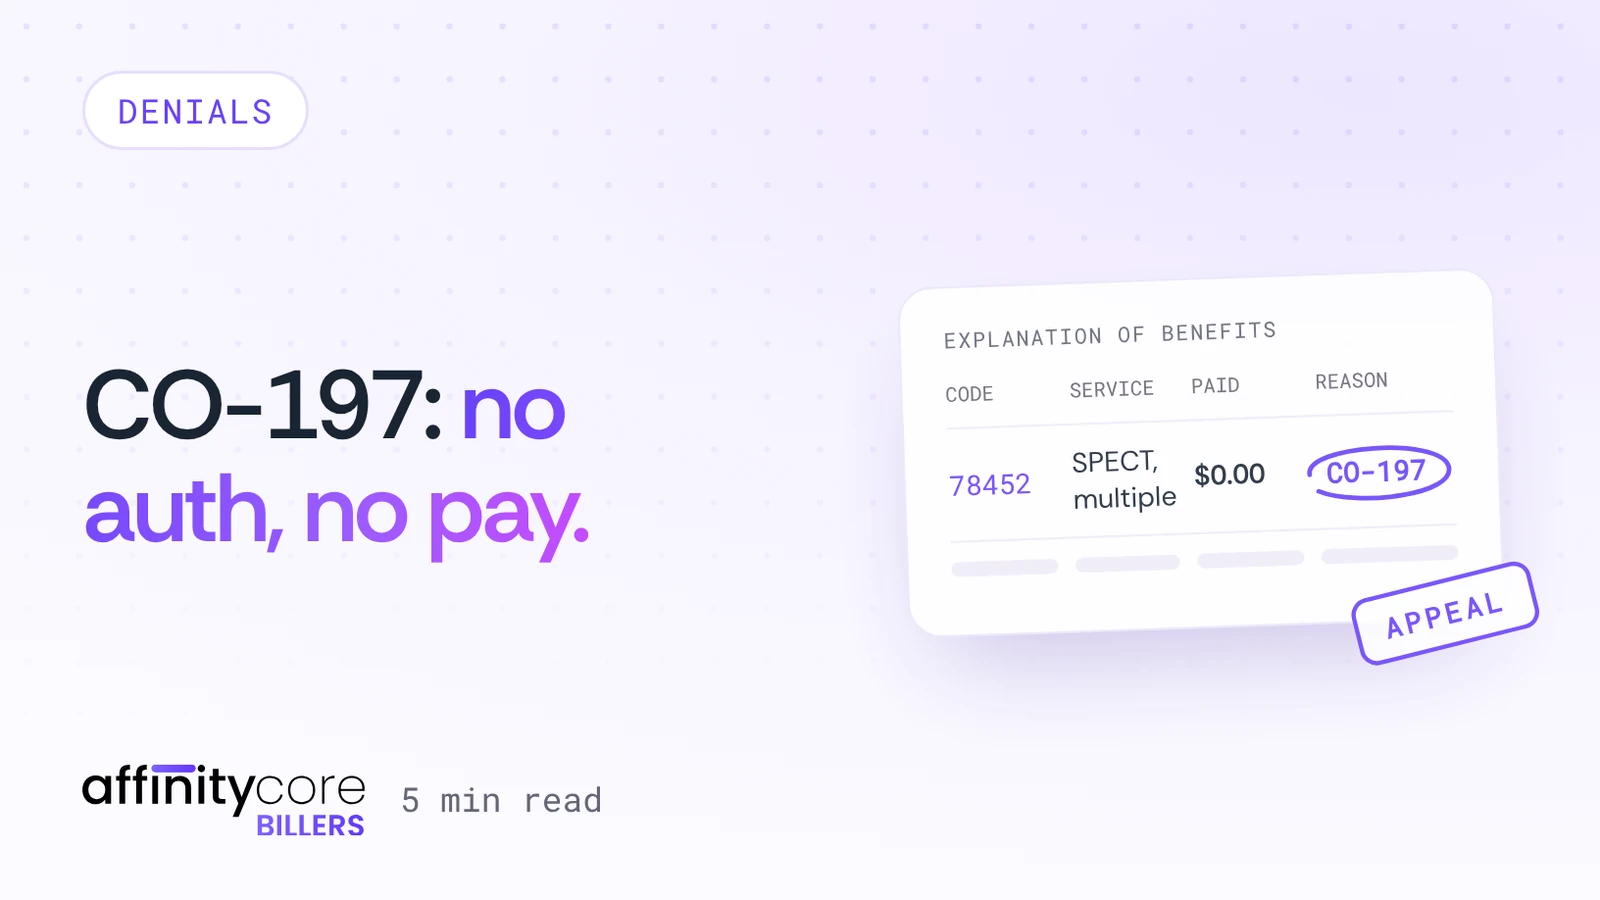
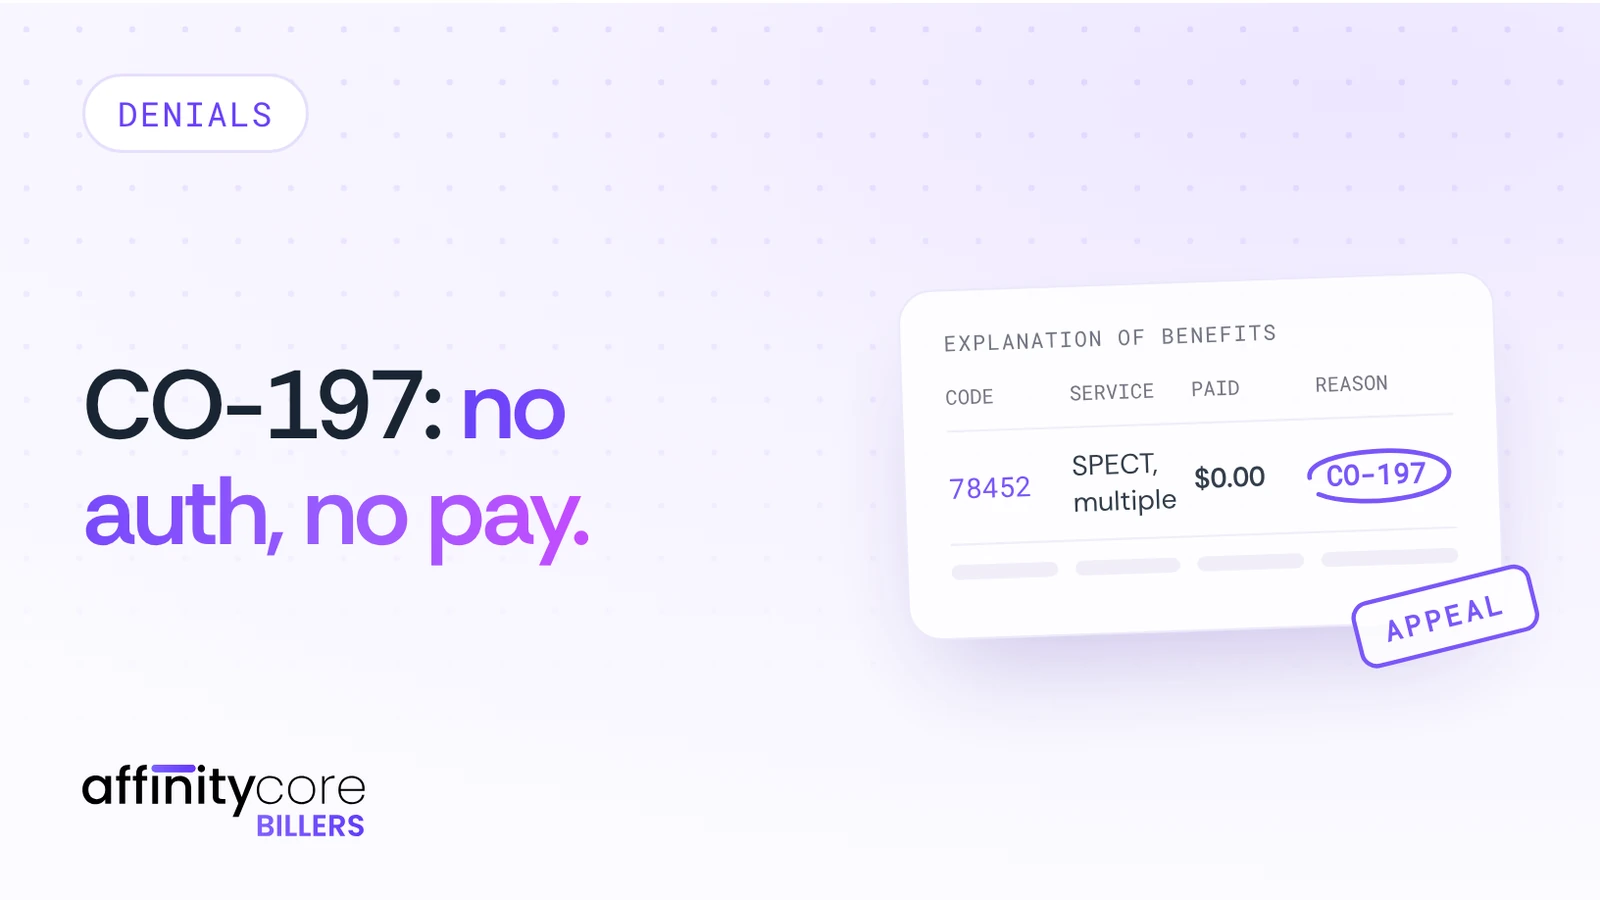
Blog covers: drop the repeated read time from the images; featured card fills its image area (taller feature crop)
Claude-Session: https://claude.ai/code/session_01VLHnCS48Nbp5LWcCiQSHnz

diff --git a/src/views/Blog.tsx b/src/views/Blog.tsx
@@ -75,7 +75,7 @@ function SplitCover({ a, big }: { a: Article; big?: boolean }) {
       <div className="bsp__text [position:relative] [z-index:1] [display:flex] [flex-direction:column] [justify-content:space-between] [min-width:0]">
         <span className="bsp__topic [align-self:flex-start] [padding:0.5rem_1.1rem] [border-radius:2rem] [background:#fff] [border:1px_solid_#e6defc] [font-family:var(--f-mono)] [font-size:max(1.15rem,11.5px)] [letter-spacing:0.06em] [text-transform:uppercase] [color:var(--purple)] [.bsp--big_&]:[font-size:max(1.3rem,13px)]">{a.topic}</span>
         <p className="bsp__hook [font-weight:600] [font-size:clamp(1.9rem,_6.6cqi,_3.4rem)] [line-height:1.08] [letter-spacing:-0.04em] [color:var(--ink-2)] [text-wrap:balance] [&_em]:[font-style:normal] [&_em]:[background:linear-gradient(90deg,_#6a41f9,_#9b5cff_60%,_#c54bff)] [&_em]:[-webkit-background-clip:text] [&_em]:[background-clip:text]! [&_em]:[color:transparent] [.bsp--big_&]:[font-size:clamp(2.6rem,_5.6cqi,_6rem)]">{lead}{accent && <> <em>{accent}</em></>}</p>
-        <span className="bsp__foot [display:flex] [align-items:center] [gap:1.2rem] [font-family:var(--f-mono)] [font-size:max(1.15rem,11.5px)] [color:#646776] [.bsp--big_&]:[font-size:max(1.3rem,13px)]"><Logo className="bsp__logo [width:9.6rem]! [.bsp--big_&]:[width:13rem]!" /><span>{a.read}</span></span>
+        <span className="bsp__foot [display:flex] [align-items:center] [gap:1.2rem] [font-family:var(--f-mono)] [font-size:max(1.15rem,11.5px)] [color:#646776] [.bsp--big_&]:[font-size:max(1.3rem,13px)]"><Logo className="bsp__logo [width:9.6rem]! [.bsp--big_&]:[width:13rem]!" /></span>
       </div>
       <ArtFit>{a.cover && <SceneCover c={a.cover} />}</ArtFit>
     </div>
@@ -162,7 +162,11 @@ export function BlogHub() {
         </div>
         <motion.article className="bf [display:grid] [grid-template-columns:minmax(0,_0.9fr)_minmax(0,_1fr)] [border-radius:3.2rem] [border:1px_solid_#ece8fa] [background:#fff] [overflow:hidden] [cursor:pointer] [box-shadow:0_3rem_8rem_-2rem_rgba(57,_28,_160,_0.16)] [transition:transform_0.6s_cubic-bezier(.16,1,.3,1)] [&:hover]:[transform:translateY(-0.6rem)] [@media(max-width:_1099px)]:[grid-template-columns:minmax(0,_1fr)]" onClick={() => go(`/blog/${feat.slug}`)} initial={{ opacity: 0, y: 40 }} animate={{ opacity: 1, y: 0 }} transition={{ duration: 1.1, ease: ease.out, delay: 0.4 }}>
           {feat.image ? (
-            <div className="bf__img [position:relative] [overflow:hidden] [background:#f8f6ff] [@media(max-width:_1099px)]:[aspect-ratio:16_/_9]"><img className="[position:absolute] [inset:0] [width:100%] [height:100%] [object-fit:contain]" src={u(feat.image)} alt={feat.hook ? feat.hook.join(' ') : ''} /></div>
+            <div className="bf__img [position:relative] [overflow:hidden] [background:#f8f6ff] [@media(max-width:_1099px)]:[aspect-ratio:16_/_9]">
+              {/* Desktop: the taller feature crop if there is one; phones and tablets: the standard 16:9 cover */}
+              <img className="[position:absolute] [inset:0] [width:100%] [height:100%] [object-fit:cover] [object-position:left_center] [@media(max-width:_1099px)]:[display:none]" src={u(feat.featureImage ?? feat.image)} alt={feat.hook ? feat.hook.join(' ') : ''} />
+              <img className="[display:none] [@media(max-width:_1099px)]:[display:block] [position:absolute] [inset:0] [width:100%] [height:100%] [object-fit:cover]" src={u(feat.image)} alt="" />
+            </div>
           ) : <BlogArt />}
           <div className="bf__body [@media(max-width:_1099px)]:[font-size:16px]! [@media(max-width:_1099px)]:[line-height:1.6] [display:flex] [flex-direction:column] [gap:1.2rem] [padding:3.2rem] [&_h2]:[font-weight:500] [&_h2]:[font-size:2.6rem] [&_h2]:[line-height:1.15] [&_h2]:[letter-spacing:-0.06rem] [&_h2]:[color:var(--ink-2)] [&_p]:[font-size:max(1.7rem,15px)] [&_p]:[line-height:1.55] [&_p]:[color:#5b5f72] [@media(max-width:_1099px)]:[padding:2.8rem] [@media(max-width:_1099px)]:[&_h2]:[font-size:2.6rem]">
             <small className="bk__meta [font-family:var(--f-mono)] [font-size:max(1.2rem,12px)] [text-transform:uppercase] [letter-spacing:0.06em] [color:#636673]"><span className="bf__new [display:inline-block] [margin-right:0.6rem] [padding:0.3rem_0.8rem] [border-radius:2rem] [color:#fff] [background:var(--grad)] [border-color:transparent]">Latest</span> {feat.topic} · {feat.date} · {feat.read}</small>

diff --git a/src/data/insights.ts b/src/data/insights.ts
@@ -126,6 +126,8 @@ import type { Cover } from '../components/BlogCover';
 export type Article = {
   /** cover image (16:9), e.g. '/blog/covers/<slug>.webp'. Used everywhere the article is shown; a CMS only needs to supply this. */
   image?: string;
+  /** optional taller crop (about 1.22:1) for the featured card on desktop; falls back to image */
+  featureImage?: string;
   /** scene thumbnail (components/BlogCover): the animated fallback when there's no image */
   cover?: Cover;
   /** text-on-image cover: a short hook (accent words in the 2nd item) — also the OG / featured image text */
@@ -138,7 +140,7 @@ export const TOPICS = ['All', 'Prior auth', 'Coding', 'Denials', 'Credentialing'
 
 export const ARTICLES: Article[] = [
   {
-    slug: 'cms-prior-authorization-rule-2026', image: '/blog/covers/cms-prior-authorization-rule-2026.webp', hook: ['Prior auth now has a', '72‑hour clock.'], cover: { k: 'clock', n: 72, of: 72, unit: 'hours', label: 'Urgent prior auth decision' }, topic: 'Prior auth', date: 'Oct 2026', read: '6 min read', author: 'Affinity Core billing team',
+    slug: 'cms-prior-authorization-rule-2026', image: '/blog/covers/cms-prior-authorization-rule-2026.webp', featureImage: '/blog/covers/cms-prior-authorization-rule-2026-feature.webp', hook: ['Prior auth now has a', '72‑hour clock.'], cover: { k: 'clock', n: 72, of: 72, unit: 'hours', label: 'Urgent prior auth decision' }, topic: 'Prior auth', date: 'Oct 2026', read: '6 min read', author: 'Affinity Core billing team',
     title: 'The 2026 prior authorization rule: what changed, and what your practice should do now',
     dek: 'Medicare Advantage, Medicaid and CHIP plans now have deadlines for prior auth decisions. Here’s what that means at the front desk.',
     body: [
